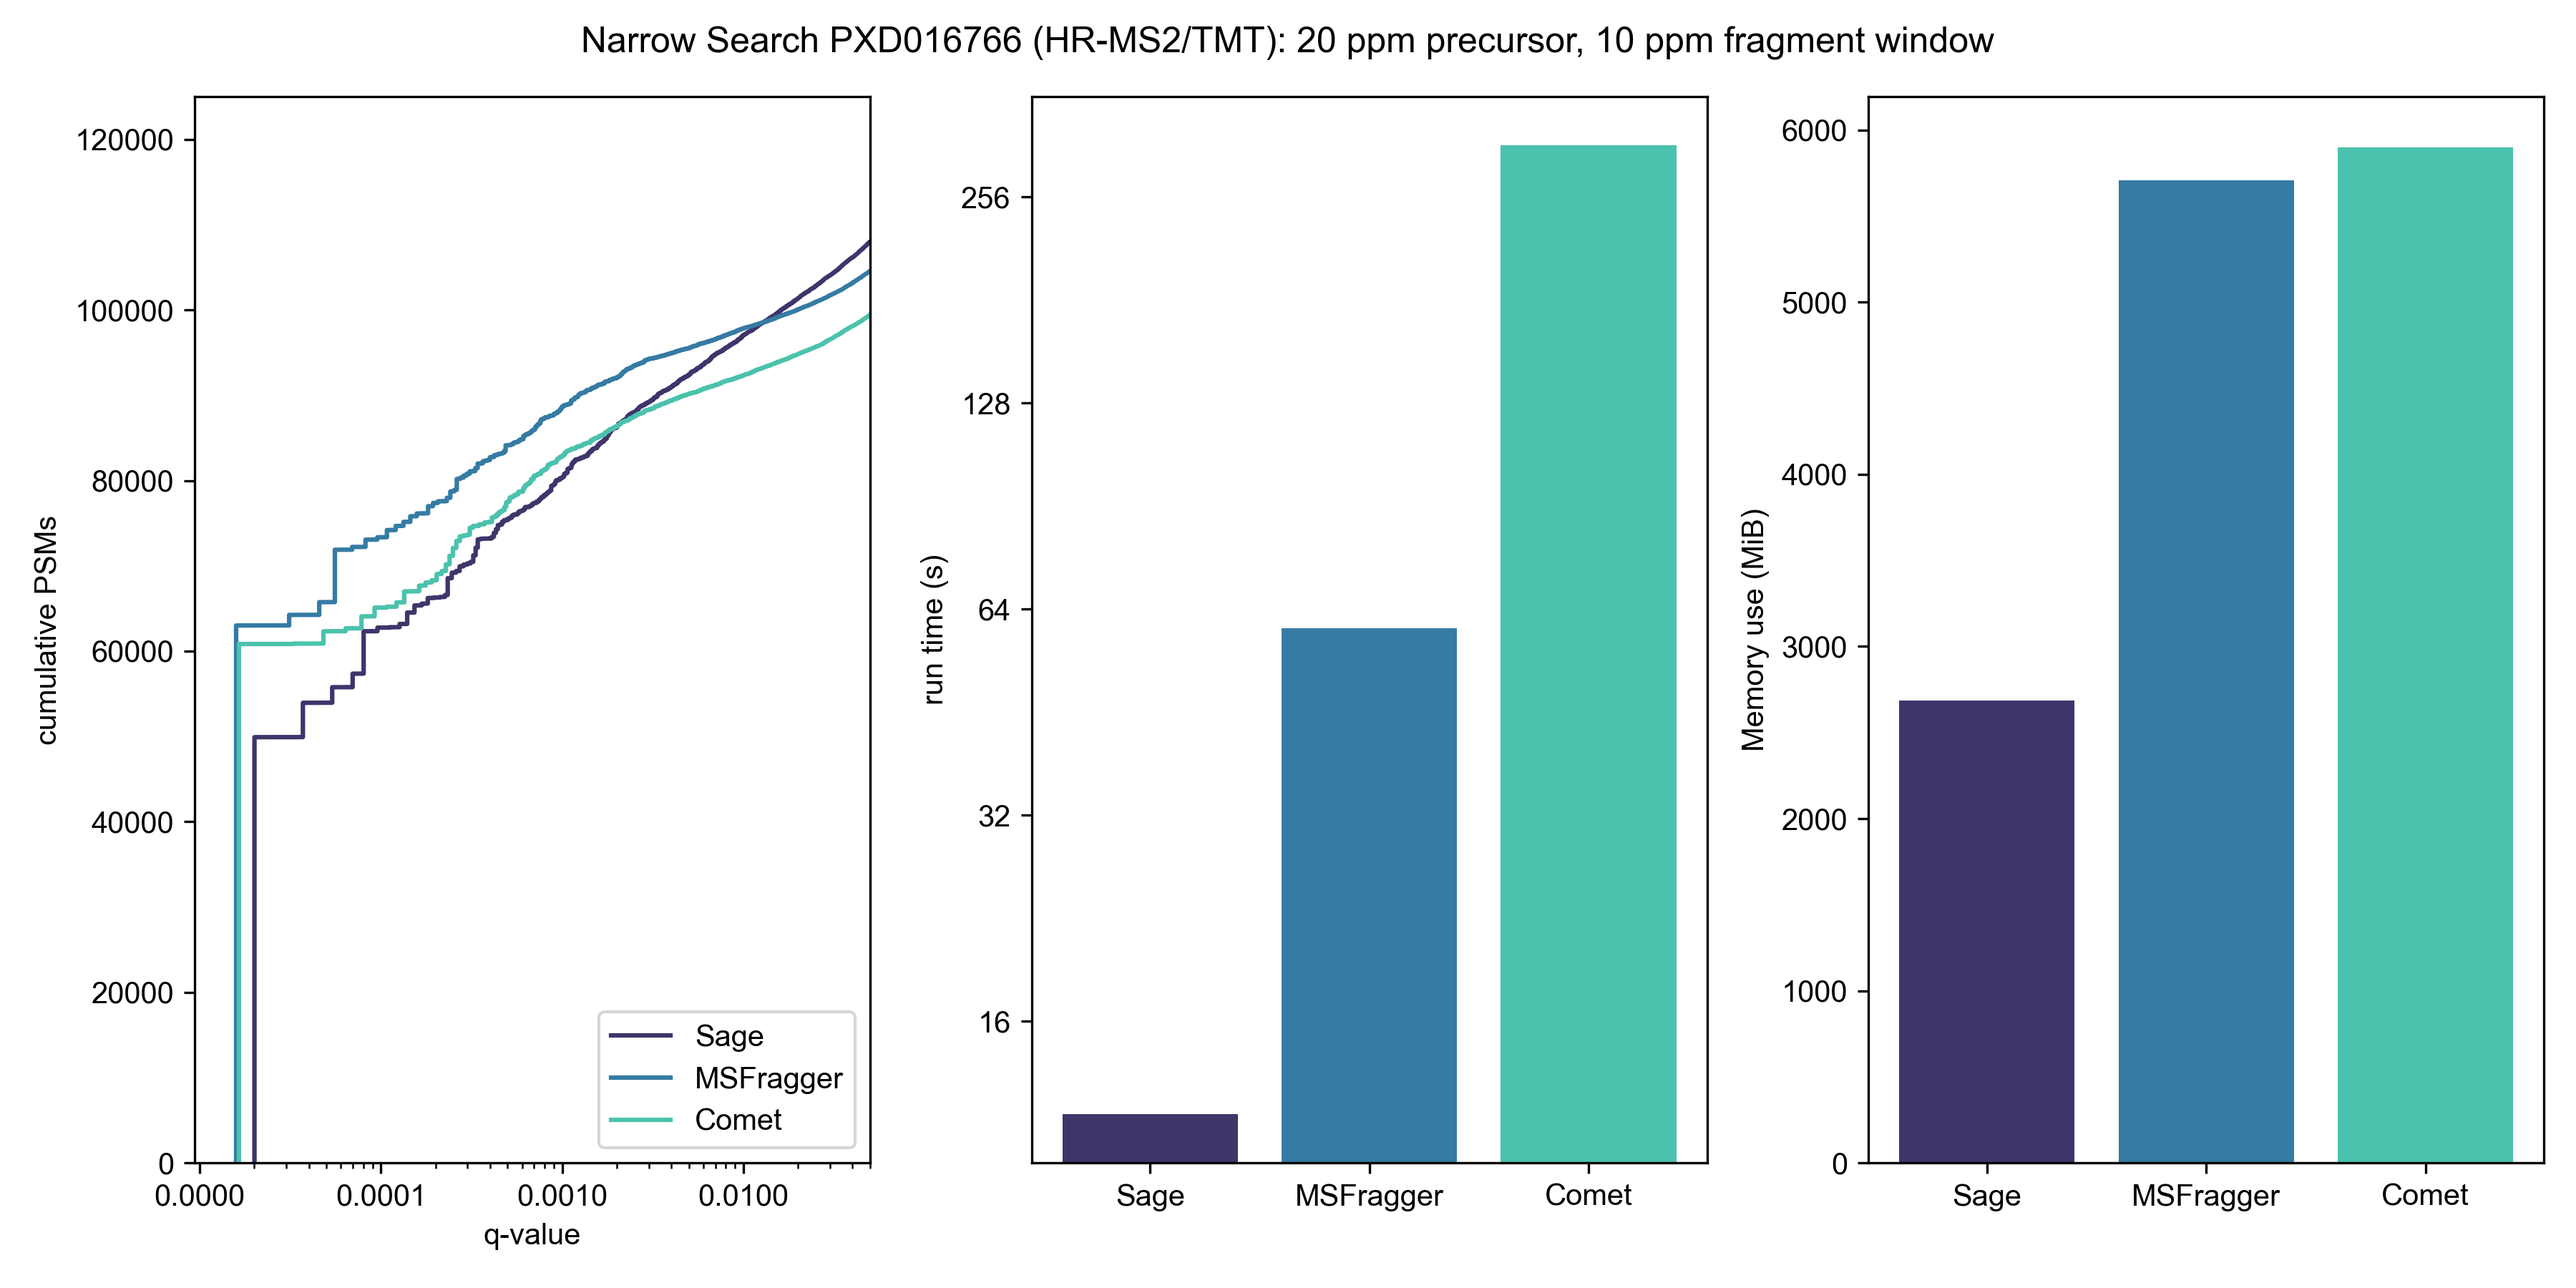
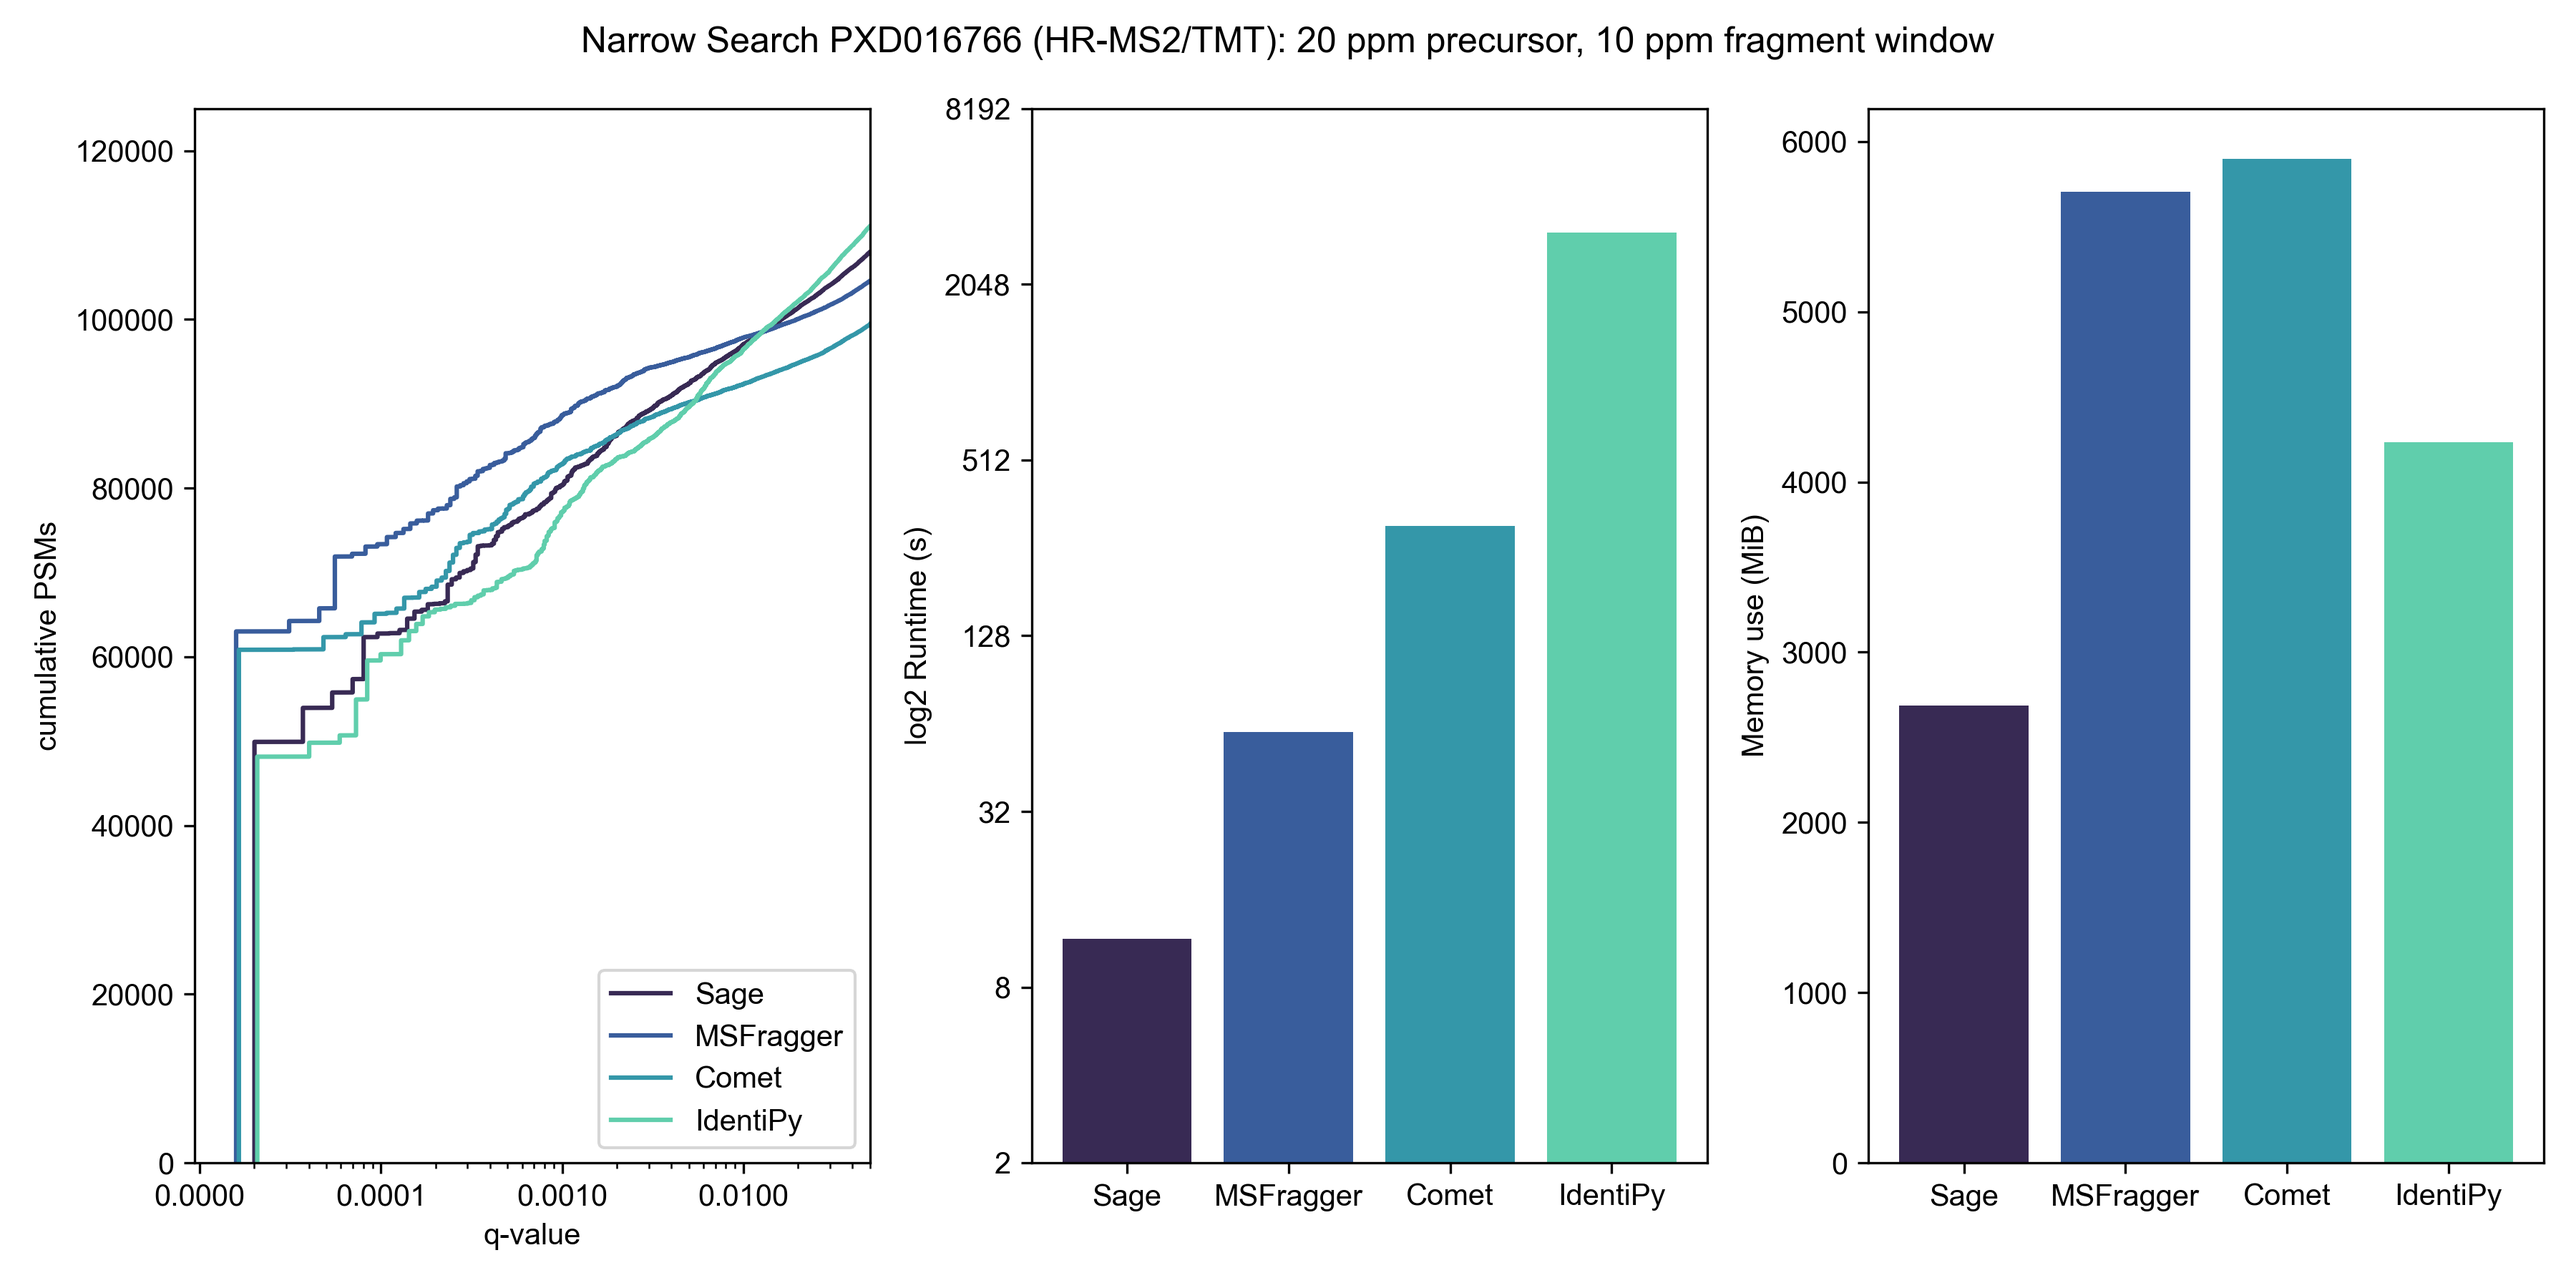
Add IdentiPy

diff --git a/docs/index.html b/docs/index.html
@@ -44,14 +44,17 @@
               <aside class="footnote">
                 MSFragger is not <a href="https://www.fsf.org/">Free Software</a> despite what others may claim<sup><a
                     href="https://www.ncbi.nlm.nih.gov/pmc/articles/PMC6469856/">1</a></sup> - it's not even open
-                source! There are also a significant number of closed source proteomics tools in general - I tend to believe that scientific software (and science, in general) should be Open and Free!
+                source! There are also a significant number of closed source proteomics tools in general - I tend to
+                believe that scientific software (and science, in general) should be Open and Free!
               </aside>
             </li>
           </ul>
 
           <p>First, some disclaimers and forewords:</p>
           <ul>
-            <li><i>Caveat emptor</i> - Sage has incredible performance, but it is still missing some features found in many other search engines. Use it at your own risk (if you do decide to try it out, please don't hesitate to contact me!)</li>
+            <li><i>Caveat emptor</i> - Sage has incredible performance, but it is still missing some features found in
+              many other search engines. Use it at your own risk (if you do decide to try it out, please don't hesitate
+              to contact me!)</li>
             <li>I made best efforts to benchmark Comet and MSFragger in good faith, including reaching out to their
               maintainers to check parameters - that being said, it is totally possible that I have misconfigured them.
               You can find the benchmarking parameters (along with all of the code!) in the <a
@@ -82,7 +85,8 @@
               scientist at a <a href="https://www.belharratx.com/">proteomics-based drug discovery company</a>, I
               figured
               this is
-              something I should understand well enough to implement from scratch. I also just really enjoying building things.
+              something I should understand well enough to implement from scratch. I also just really enjoying building
+              things.
             </aside>
 
             One weekend (and some change) of flow-state coding later, and I accidentally created something
@@ -107,7 +111,8 @@
             This approach has had great success, but it is exhaustive, and thus slow. Every candidate peptide within
             the precursor tolerance window is compared against the experimental spectrum, even if there are no shared
             fragment peaks
-          </aside> There are also additional approaches like <i>de novo</i> peptide sequencing, spectral library matching, and using machine
+          </aside> There are also additional approaches like <i>de novo</i> peptide sequencing, spectral library
+          matching, and using machine
           learning models for embedding spectra, but those are outside the scope of this work.
 
           <p>
@@ -123,7 +128,8 @@
             share no common fragments are effectively bypassed". They spend a couple paragraphs in the methods
             section outlining the algorithm and search steps, but the codebase itself is <strong>closed source</strong>
             and
-            binaries are only freely available for non-commercial use (which Alexey kindly reminded me of when I emailed him about benchmarking MSFragger). Regardless, it's an elegant and performant
+            binaries are only freely available for non-commercial use (which Alexey kindly reminded me of when I emailed
+            him about benchmarking MSFragger). Regardless, it's an elegant and performant
             reformulation of database searching, and it captured my imagination enough that I had to try my hand at
             implementing it.</p>
 
@@ -234,17 +240,17 @@
               <li>All searches were run on c5ad.8xlarge EC2 spot instances (32 vCPU cores, 64 GB RAM, NVMe disks)
                 using:
                 <ul>
-              <li>the same
-                FASTA database,<sup class="footnote-ref"></sup>
-                <aside class="footnote">
-                  Most recent reviewed Human FASTA file, with decoys concatenated. Database prepared using <a
-                    href="https://github.com/Nesvilab/philosopher">Philosopher</a>
-                </aside>
-              </li>
-              <li>and the same input mzML files (processed using <a
-                  href="https://proteowizard.sourceforge.io/download.html">MSConvert</a>).
-              </li>
-            </ul>
+                  <li>the same
+                    FASTA database,<sup class="footnote-ref"></sup>
+                    <aside class="footnote">
+                      Most recent reviewed Human FASTA file, with decoys concatenated. Database prepared using <a
+                        href="https://github.com/Nesvilab/philosopher">Philosopher</a>
+                    </aside>
+                  </li>
+                  <li>and the same input mzML files (processed using <a
+                      href="https://proteowizard.sourceforge.io/download.html">MSConvert</a>).
+                  </li>
+                </ul>
               </li>
               <li>
 
@@ -261,7 +267,7 @@
               <li>Performance will vary across systems - Sage performs best on amd64 systems running *nix operating
                 systems - but it will also run pretty well on aarch64 or Windows setups!</li>
               <li>Comet & Sage were both compiled from source on the EC2 instance, MSFragger jar was used as
-                downloaded</li>
+                downloaded, <a href="https://github.com/levitsky/identipy">IdentiPy</a> was installed via pip.</li>
               <li>I was going to benchmark MSGF+ as well, but it is <strong>ultraslow</strong> (it took over 12 minutes
                 for a
                 <i>single</i> mzML file from the TMT dataset - about 750x slower than Sage)</strong>. Given that EC2
@@ -285,16 +291,66 @@
 
           <h4>If MSFragger is "ultrafast", what is Sage?</h4>
 
-          <p>I half-joke: MSFragger really is fast! But, Sage is about 5x faster than MSFragger and 25x faster than
-            Comet
-            for a typical TMT search,
-            and identifies slightly more PSMs at a 1% FDR than both. On our EC2 instance, we could process around 4,800
-            of these raw files in an hour - for $0.51. Not bad!
+          <p>I half-joke: MSFragger really is fast! But, Sage is about 5x faster than MSFragger, 25x faster than
+            Comet, 300x faster than IdentiPy, and 750x faster than MSGF+ on
+            a typical TMT search
+            and identifies a similar number of PSMs at 1% FDR.
+          </p>
+          <p>Sage is so fast that computational cost of searching becomes irrelevant - you could
+            re-process all of PRIDE's annotated PSMs
+            (580,917,172 at current count) using Sage for less than $3, assuming you had the bandwidth to keep the
+            engine fed!
           </p>
 
 
           <img src="tmt_search.png" class="large" />
-          <figcaption>Yeah, it's pretty fast</figcaption>
+          <figcaption>Yeah, it's pretty fast - note that the times on the graph are log2 transformed!</figcaption>
+
+          <table>
+            <thead>
+              <tr>
+                <th>Engine</th>
+                <th>Runtime</th>
+                <th>Cost to process 12 mzML files</th>
+                <th>PSMs at 1% FDR</th>
+              </tr>
+            </thead>
+            <tbody>
+              <tr>
+                <td>Sage</td>
+                <td>11 s</td>
+                <td>$0.0015</td>
+                <td>97,046</td>
+              </tr>
+              <tr>
+                <td>MSFragger</td>
+                <td>60 s</td>
+                <td>$0.0085†</td>
+                <td>97,844</td>
+              </tr>
+              <tr>
+                <td>Comet</td>
+                <td>305 s</td>
+                <td>$0.0432</td>
+                <td>92,333</td>
+              </tr>
+              <tr>
+                <td>IdentiPy</td>
+                <td>3088 s</td>
+                <td>$0.4375</td>
+                <td>96,465</td>
+              </tr>
+              <tr>
+                <td>MSGF+</td>
+                <td>9000 s<sup>#</sup></td>
+                <td>$1.2750</td>
+                <td>-</td>
+              </tr>
+            </tbody>
+          </table>
+          <figcaption>† plus licensing fee, presumably<br><sup>#</sup> benchmarking terminated after first file due to cost, results
+            are estimates</figcaption>
+
 
 
           For a proteomics experiment, performance isn't everything... peptide-spectrum matches are! Sage also
@@ -330,12 +386,13 @@
           <h3>Benchmarking against synthetic peptide datasets</h3>
 
           With many proteomics searches, we often don't have a "ground truth" for which peptides are actually present in
-          a sample - lucky for us, the <a href="https://www.nature.com/articles/nmeth.4153">ProteomeTools</a> project out of TUM has been
-            building a
-            complete synthetic human proteome. To test it out, I downloaded the ProteomeTools HCD Spectral Library (some
-            260,000 spectra) from <a
-              href="https://massive.ucsd.edu/ProteoSAFe/static/massive-kb-libraries.jsp">MassIVE</a> and used MSConvert
-            to convert the MGF file to an mzML.
+          a sample - lucky for us, the <a href="https://www.nature.com/articles/nmeth.4153">ProteomeTools</a> project
+          out of TUM has been
+          building a
+          complete synthetic human proteome. To test it out, I downloaded the ProteomeTools HCD Spectral Library (some
+          260,000 spectra) from <a
+            href="https://massive.ucsd.edu/ProteoSAFe/static/massive-kb-libraries.jsp">MassIVE</a> and used MSConvert
+          to convert the MGF file to an mzML.
           <p>This dataset allows us to actually determine if our PSM identifications match up to what they "should" be -
             each spectrum is annotated with the sequence of it's synthetic peptide precursor.
             I started Sage, and 10 seconds later we correctly identified 215,281 PSMs with a 1% FDR - there were 1,055
@@ -355,16 +412,16 @@
             </thead>
             <tbody>
               <tr>
-                <td>Comet</td>
-                <td>130 s</td>
-                <td>210,190</td>
-                <td>210,688</td>
-              </tr>
-              <tr>
                 <td>Sage</td>
                 <td>10 s</td>
                 <td>215,281</td>
                 <td>216,336</td>
+              </tr>
+              <tr>
+                <td>Comet</td>
+                <td>130 s</td>
+                <td>210,190</td>
+                <td>210,688</td>
               </tr>
             </tbody>
           </table>
@@ -403,25 +460,22 @@
             </thead>
             <tbody>
               <tr>
-                <td>Comet</td>
-                <td>1286 s</td>
-                <!-- <td>5.5 GB</td> -->
-                <td>787,541</td>
-                <td>815,261</td>
+                <td>Sage</td>
+                <td>78 s</td>
+                <td>782,049</td>
+                <td>815,548</td>
               </tr>
               <tr>
                 <td>MSFragger</td>
                 <td>221 s</td>
-                <!-- <td>16.9 GB</td> -->
                 <td>777,186</td>
                 <td>795,633</td>
               </tr>
               <tr>
-                <td>Sage</td>
-                <td>78 s</td>
-                <!-- <td>5.6 GB</td> -->
-                <td>782,049</td>
-                <td>815,548</td>
+                <td>Comet</td>
+                <td>1286 s</td>
+                <td>787,541</td>
+                <td>815,261</td>
               </tr>
             </tbody>
           </table>
